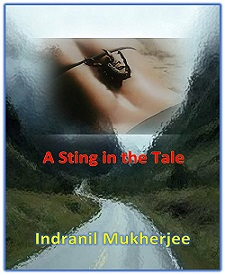
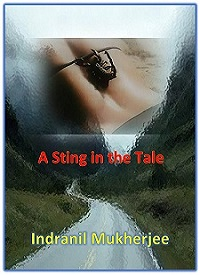
Pics updated

diff --git a/webpage/story/string.html b/webpage/story/string.html
@@ -3,7 +3,7 @@
 
 <head>
   <meta charset="utf-8">
-  <title>Story : Mission Earth</title>
+  <title>Story : Sting in the Tale</title>
   <link href="../../css/core.css" rel="stylesheet">
   <link href="../../css/story.css" rel="stylesheet">
   <link href="../../css/boot.css" rel="stylesheet">
@@ -17,7 +17,7 @@
   <!-- Big Screen -->
   <div class="w3-padding col-lg-6 w3-hide-small w3-hide-medium">
     <a class="btn btn-success w3-right w3-padding" href="../story.html">Back </a>
-    <h1>A String in the Tale</h1>
+    <h1>A Sting in the Tale</h1>
     <p class="w3-padding w3-large">The sun had set by the time I reached the hotel to check in. I'd wrapped up my meetings in Dehradun by five in the evening and then cabbed it up to Mussoorie for a restful weekend before flying back to Delhi, and a refurbished life.</p>
     <p class="w3-padding w3-large">The hotel reception wasn't much crowded, just another guest either checking in or out, I didn't pay attention. I'd handed over the filled-out guest card and was waiting for the clerk to give me the room key, thinking of a chilled beer to start my evening, when someone tapped my shoulder.</p>
     <p class="w3-padding w3-large">"Monk?"</p>
@@ -120,7 +120,7 @@
   <!--small Screen-->
   <div class="w3-padding col-lg-6 w3-hide-large">
     <a class="btn btn-success w3-right w3-padding w3-xxlarge" href="../story.html">Back </a>
-    <h1 class="w3-jumbo">A String in the Tale</h1>
+    <h1 class="w3-jumbo">A Sting in the Tale</h1>
     <p class="w3-padding w3-xxxlarge">The sun had set by the time I reached the hotel to check in. I'd wrapped up my meetings in Dehradun by five in the evening and then cabbed it up to Mussoorie for a restful weekend before flying back to Delhi, and a refurbished life.</p>
     <p class="w3-padding w3-xxxlarge">The hotel reception wasn't much crowded, just another guest either checking in or out, I didn't pay attention. I'd handed over the filled-out guest card and was waiting for the clerk to give me the room key, thinking of a chilled beer to start my evening, when someone tapped my shoulder.</p>
     <p class="w3-padding w3-xxxlarge">"Monk?"</p>
